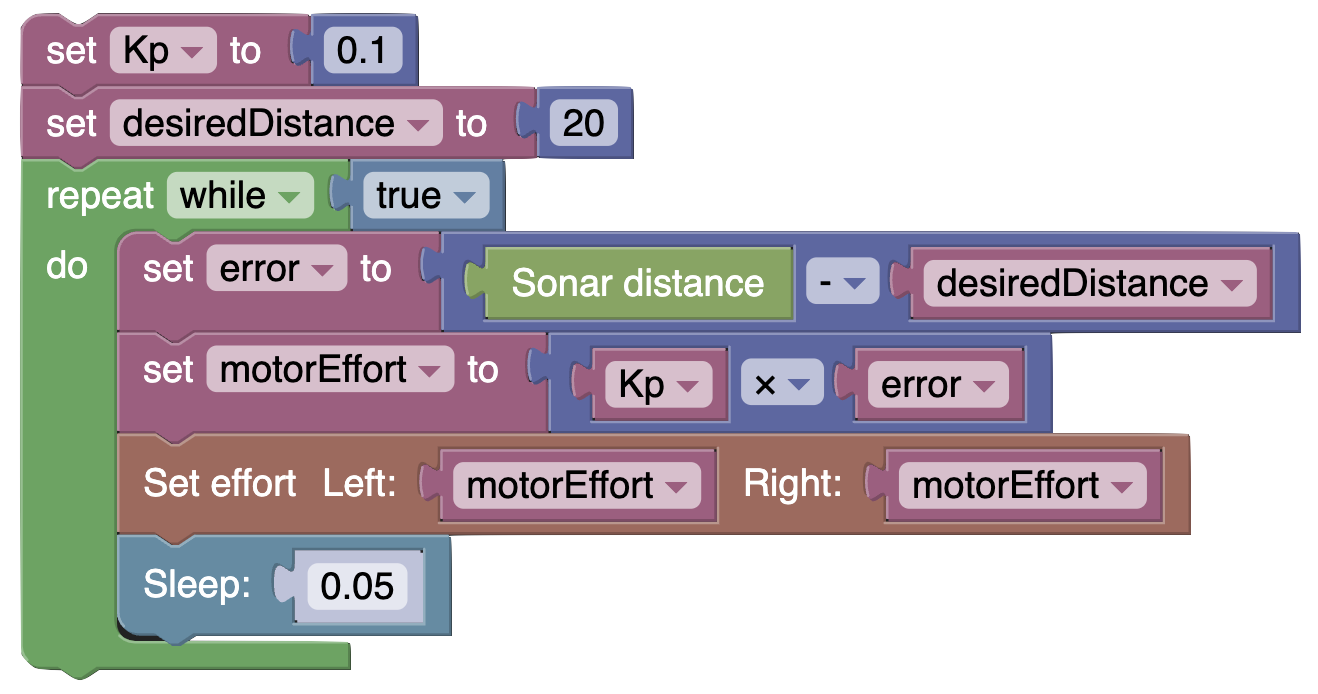
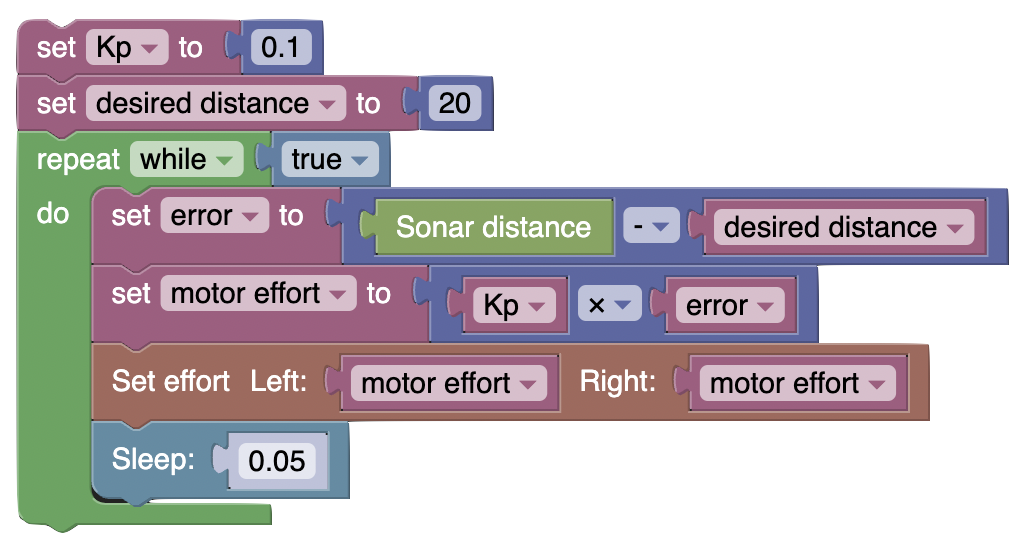
remove poll word and snake case

Changed region(s): [[0.0, 0.0, 0.9961, 0.9963], [0.0934, 0.8095, 0.1868, 0.8718]]

diff --git a/course/robot_control/prop_distance_tracker.rst b/course/robot_control/prop_distance_tracker.rst
@@ -12,7 +12,7 @@ Let's identify the terms we'll need to use in our code:
 **Set Point** or desired value: In this example, this is some set distance from the rangefinder we want the robot to be at. 
 For this example, let's say 20cm.
 
-**Process Variable** or current value: We obtain our measured value from polling the rangerfinder. This is
+**Process Variable** or current value: We obtain our measured value from reading the rangerfinder value. This is
 :code:`rangefinder.distance()`.
 
 Our goal is for our process variable (the rangefinder distance) to approach the set point (20 cm).
@@ -22,7 +22,7 @@ is also "correct". The distinction in sign is simply whichever makes more sense 
 we would want to drive forward 10cm, so we would want a positive error to make our motors spin forward.
 
 **Control Output**: In this case, this is our motor effort. This is because we want to drive with a speed proportional
-to the distance error. As a reminder for P control, this will be calculated as :code:`motorEffort = Kp * error`.
+to the distance error. As a reminder for P control, this will be calculated as :code:`motor_effort = Kp * error`.
 
 **Kp**: This is our proportional gain. Though we will need to tune this value, we can guess a somewhat reasonable value
 by considering the range of values our error can take, and the domain of our control output. In this case, if we're 30cm away
@@ -44,14 +44,14 @@ Let's start by defining our proportional gain and our set point:
         .. code-block:: python
 
             Kp = 0.1
-            desiredDistance = 20
+            desired_distance = 20
 
     .. tab-item:: Blockly
 
         .. image:: media/variables.png
             :width: 300
 
-Next, we want to enter some sort of loop to continuously poll our rangefinder and  update our motor effort from our controller output.
+Next, we want to enter some sort of loop to continuously read our rangefinder value and update our motor effort from our controller output.
 
 .. tab-set::
 
@@ -60,11 +60,11 @@ Next, we want to enter some sort of loop to continuously poll our rangefinder an
         .. code-block:: python
 
             Kp = 0.1
-            desiredDistance = 20
+            desired_distance = 20
             while True:
-                error = rangefinder.distance() - desiredDistance
-                motorEffort = Kp * error
-                drivetrain.set_effort(motorEffort, motorEffort)
+                error = rangefinder.distance() - desired_distance
+                motor_effort = Kp * error
+                drivetrain.set_effort(motor_effort, motor_effort)
                 time.sleep(0.05)
 
     .. tab-item:: Blockly
@@ -73,7 +73,7 @@ Next, we want to enter some sort of loop to continuously poll our rangefinder an
             :width: 500
 
 Each iteration of the loop consists of the following steps:
-    #. Poll the rangefinder to get the current distance
+    #. Read the rangefinder value to get the current distance
     #. Calculate the error
     #. Calculate the control output through Kp * error
     #. Set the drivetrain motor efforts to the control output
